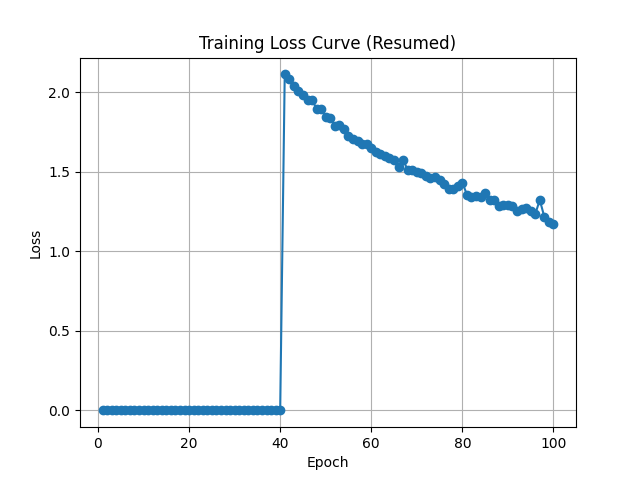
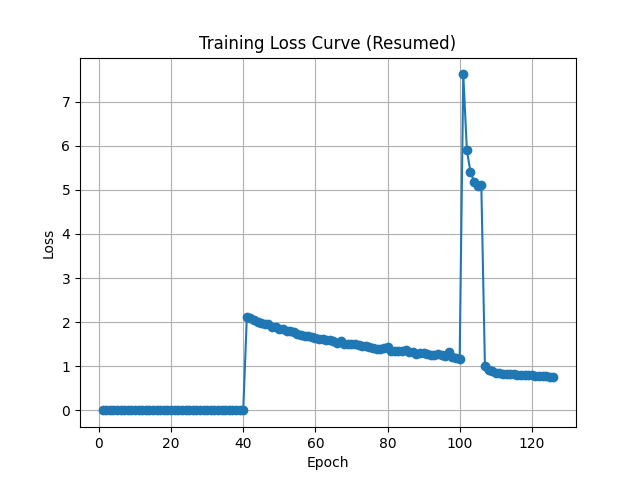
train without data augumentation is better for lesser epoch

diff --git a/USE_PREMADE/resumeTrain.py b/USE_PREMADE/resumeTrain.py
@@ -29,9 +29,9 @@ def resume_train(checkpoint_path, start_epoch, num_additional_epochs):
 
     # Load previous loss history if available
     loss_history = []
-    loss_curve_path = 'checkpoints_aug/training_loss_curve.png'
-    if os.path.exists('checkpoints_aug/loss_history.pt'):
-        loss_history = torch.load('checkpoints_aug/loss_history.pt')
+    loss_curve_path = 'checkpoints/training_loss_curve.png'
+    if os.path.exists('checkpoints/loss_history.pt'):
+        loss_history = torch.load('checkpoints/loss_history.pt')
     else:
         # If not available, fill with zeros up to start_epoch
         loss_history = [0.0] * start_epoch
@@ -48,8 +48,8 @@ def resume_train(checkpoint_path, start_epoch, num_additional_epochs):
             # Apply augmentations before resizing and normalization
             image = self.aug(image)
             return super().__call__(image, target)
-
-    transform = AugmentedDetectionTransform(size=320)
+    # transform = AugmentedDetectionTransform(size=320)
+    transform = DetectionTransform(size=320)
     train_dataset = VOCDataset("../VOCdata", year='2012', image_set='trainval', transform=transform)
     train_loader = DataLoader(
         train_dataset,
@@ -78,7 +78,7 @@ def resume_train(checkpoint_path, start_epoch, num_additional_epochs):
         print(f"Epoch [{epoch+1}], Loss: {avg_loss:.4f}, Learning Rate: {optimizer.param_groups[0]['lr']:.6f}")
         loss_history.append(avg_loss)
         # Save checkpoint
-        checkpoint_dir = "checkpoints_aug"
+        checkpoint_dir = "checkpoints"
         os.makedirs(checkpoint_dir, exist_ok=True)
         checkpoint_path = os.path.join(checkpoint_dir, f"ssd_checkpoint_epoch{epoch+1}.pth")
         torch.save({
@@ -89,7 +89,7 @@ def resume_train(checkpoint_path, start_epoch, num_additional_epochs):
             'loss': avg_loss
         }, checkpoint_path)
         print(f"Checkpoint saved: {checkpoint_path}")
-        torch.save(loss_history, 'checkpoints_aug/loss_history.pt')
+        torch.save(loss_history, 'checkpoints/loss_history.pt')
         torch.cuda.empty_cache()
     # Plot and save loss curve
     plt.figure()
@@ -103,7 +103,7 @@ def resume_train(checkpoint_path, start_epoch, num_additional_epochs):
 
 if __name__ == '__main__':
     # Set these variables directly instead of using argparse
-    checkpoint_path = "checkpoints_aug/ssd_checkpoint_epoch100.pth"  # <-- set your checkpoint path
+    checkpoint_path = "checkpoints/ssd_checkpoint_epoch100.pth"  # <-- set your checkpoint path
     start_epoch = 100  # <-- set the epoch value of the checkpoint file
-    num_additional_epochs = 30  # <-- set how many more epochs to train
+    num_additional_epochs = 20  # <-- set how many more epochs to train
     resume_train(checkpoint_path, start_epoch, num_additional_epochs)

diff --git a/USE_PREMADE/testWithImage.py b/USE_PREMADE/testWithImage.py
@@ -6,8 +6,8 @@ import matplotlib.patches as patches
 from train import get_model, VOC_CLASSES
 
 # --------- User variables ---------
-image_path = "dolphin.jpg"  # Set your image path here
-checkpoint_path = "checkpoints/ssd_checkpoint_epoch100.pth"  # Set your checkpoint path here
+image_path = "people.jpeg"  # Set your image path here
+checkpoint_path = "checkpoints/ssd_checkpoint_epoch120.pth"  # Set your checkpoint path here
 score_threshold = 0.3  # Only show boxes with confidence above this
 
 # --------- Load model ---------
@@ -41,8 +41,8 @@ fig, ax = plt.subplots(1)
 ax.imshow(img)
 for box, label, score in zip(boxes, labels, scores):
     if score < score_threshold:
-        class_name = VOC_CLASSES[label-1] if 0 < label <= len(VOC_CLASSES) else str(label.item())
-        print(f'Skipping box with score {score:.2f} below threshold {score_threshold}, class {class_name}')
+        # class_name = VOC_CLASSES[label-1] if 0 < label <= len(VOC_CLASSES) else str(label.item())
+        # print(f'Skipping box with score {score:.2f} below threshold {score_threshold}, class {class_name}')
         continue
     xmin, ymin, xmax, ymax = box.tolist()
     rect = patches.Rectangle((xmin, ymin), xmax - xmin, ymax - ymin, linewidth=2, edgecolor='r', facecolor='none')

diff --git a/USE_PREMADE/train.py b/USE_PREMADE/train.py
@@ -155,7 +155,8 @@ def train():
     print("Device:", device)
     print("Model loaded successfully.".center(50, "="))
 
-    transform = AugmentedDetectionTransform(size=320)
+    # transform = AugmentedDetectionTransform(size=320)
+    transform = DetectionTransform(size=320)
     train_dataset = VOCDataset("../VOCdata", year='2012', image_set='trainval', transform=transform)
     train_loader = DataLoader(
         train_dataset,
@@ -170,7 +171,7 @@ def train():
     print("Training DataLoader initialized.".center(50, "="))
     params = [p for p in model.parameters() if p.requires_grad]
     # Use AdamW optimizer
-    optimizer = optim.AdamW(params, lr=0.0005, weight_decay=1e-4)
+    optimizer = optim.AdamW(params, lr=0.0001, weight_decay=1e-4)
 
     # Use ReduceLROnPlateau scheduler
     lr_scheduler = torch.optim.lr_scheduler.ReduceLROnPlateau(

diff --git a/USE_PREMADE/eval_map.py b/USE_PREMADE/eval_map.py
@@ -57,7 +57,7 @@ if __name__ == "__main__":
     device = torch.device('cuda' if torch.cuda.is_available() else 'cpu')
     # Load model and checkpoint
     model = get_model(device)
-    checkpoint = torch.load("checkpoints_aug/ssd_checkpoint_epoch100.pth", map_location=device)
+    checkpoint = torch.load("checkpoints/ssd_checkpoint_epoch120.pth", map_location=device)
     model.load_state_dict(checkpoint['model_state_dict'])
     print("Model loaded successfully.".center(50, "="))
     # Load VOC validation set
